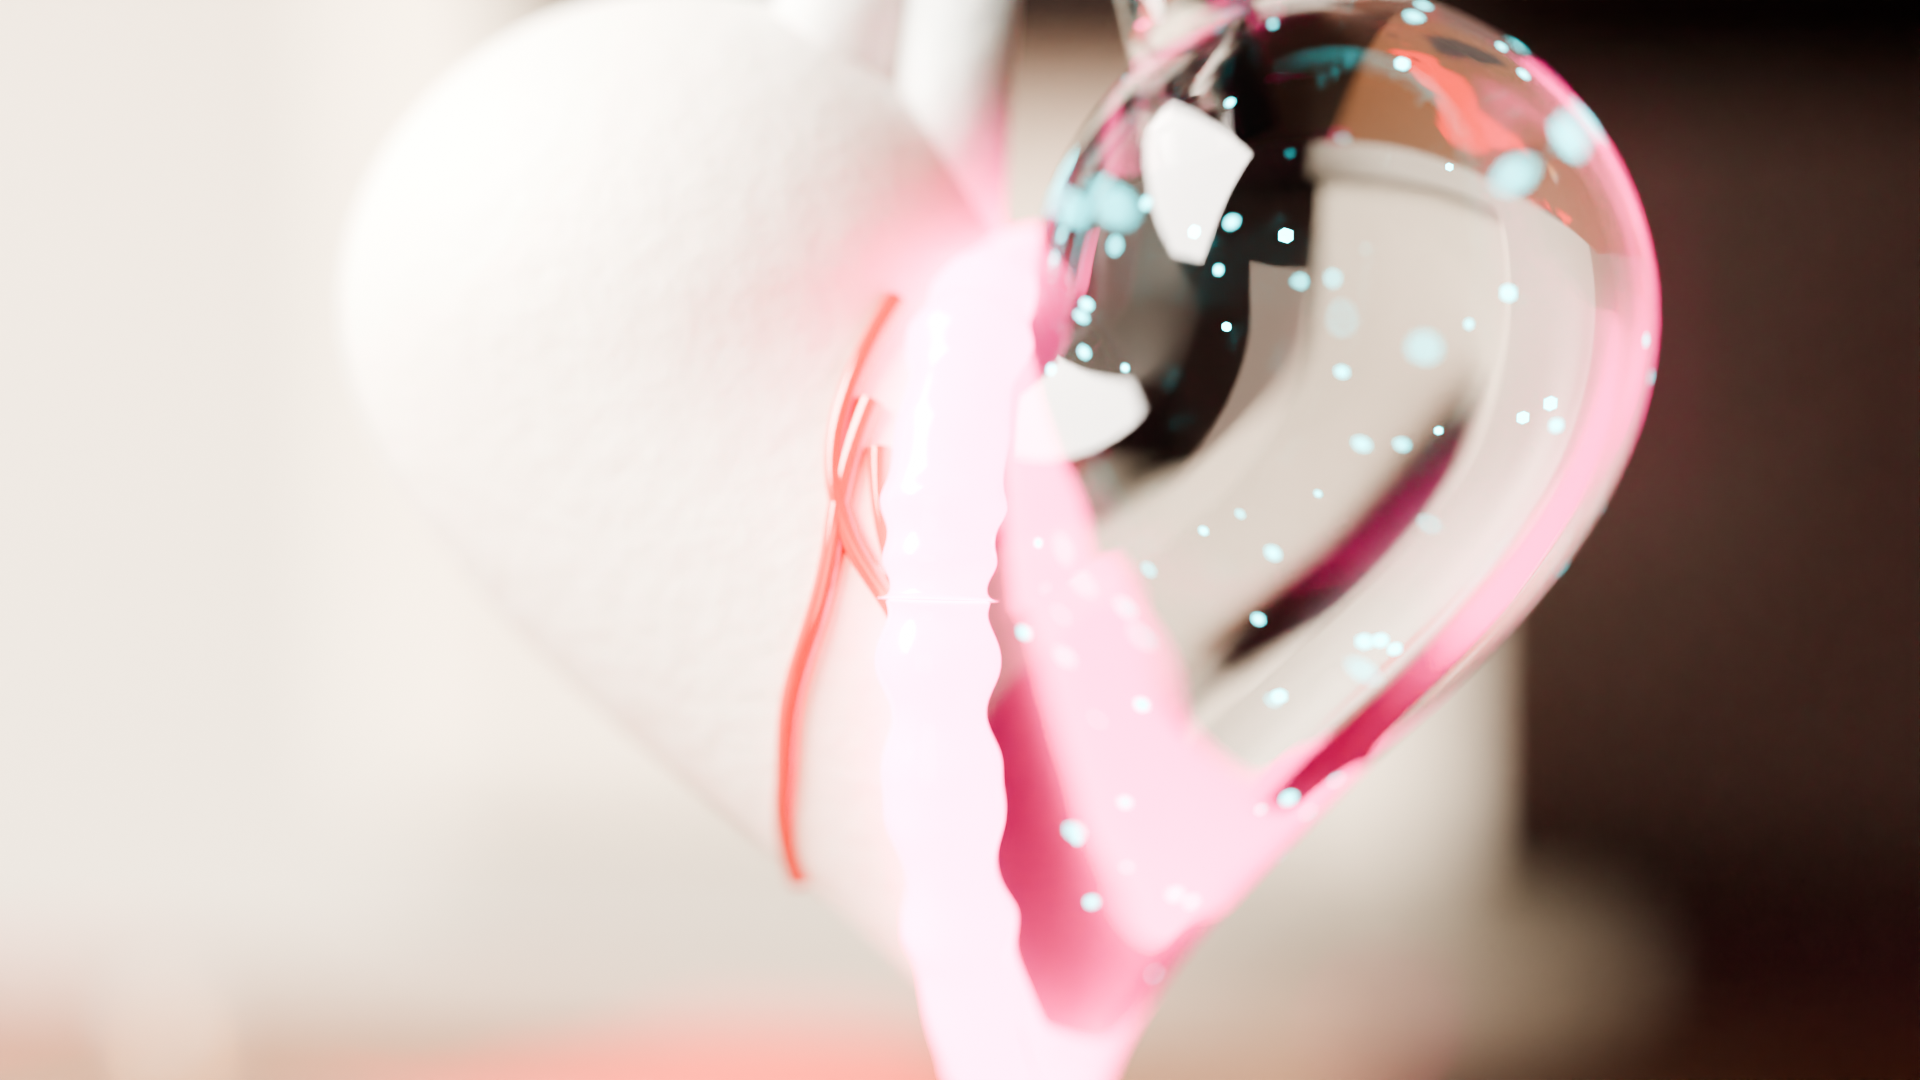
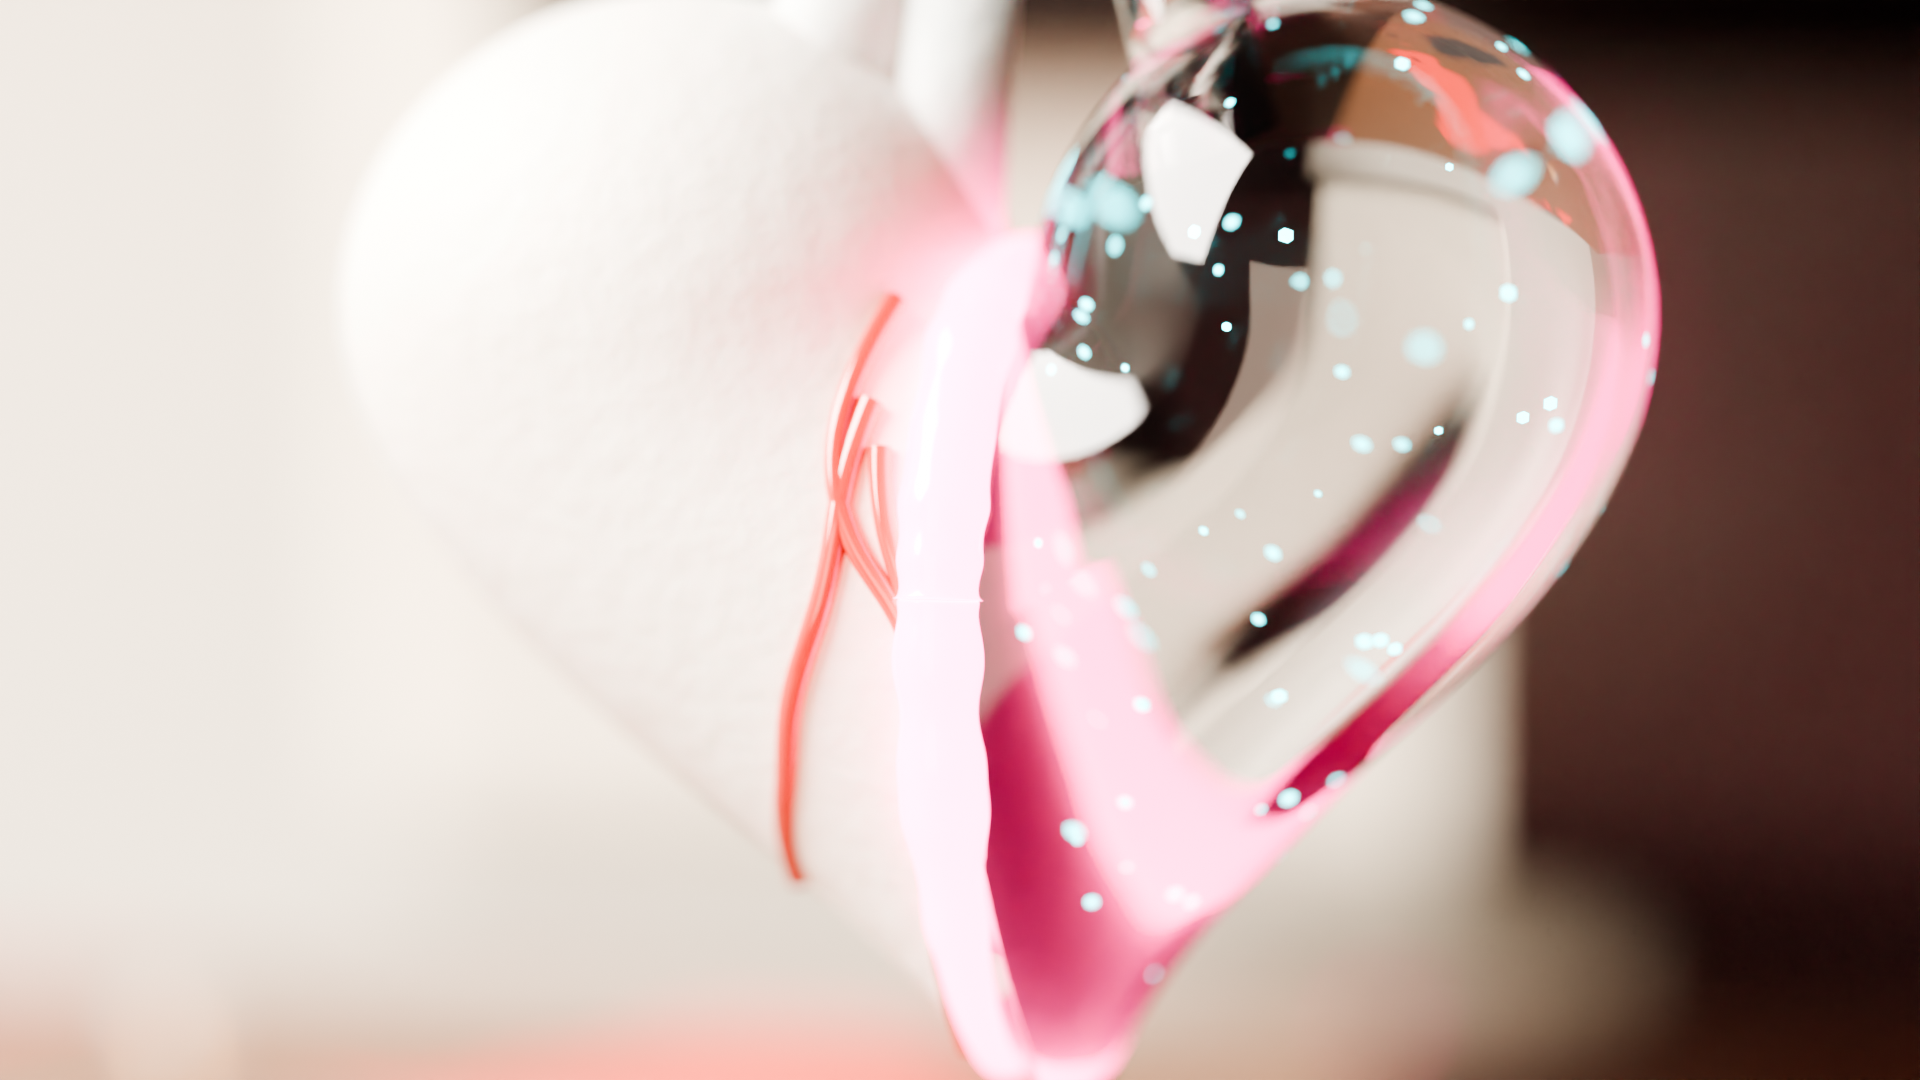
S3: neon 「裏」 hung near the focus plane on a black board, no haze in the three-quarter shot, seam tapers to the apex

diff --git a/scripts/s3_workshop.py b/scripts/s3_workshop.py
@@ -23,7 +23,8 @@ OUT = argv[0] if argv else os.path.join(ROOT, "renders", "s3")
 SHOTS = argv[1:] or ["wide", "macro", "three"]
 BENCH_TOP = 0.072
 BASE_SAMPLES = int(os.environ.get('SAMPLES', 256))
-SHOT_SAMPLES = {"three": BASE_SAMPLES * 2}   # its out-of-focus haze is the noisiest
+SHOT_SAMPLES = {}
+NO_HAZE = {"three"}
 
 
 def cycles(samples=int(os.environ.get('SAMPLES', 256))):
@@ -154,24 +155,31 @@ def build():
             clip = A.rounded_box("clip", (0.004, 0.003, 0.009), 0.0005, [A.plastic("#C9A97A", 0.6, "clip")])
             clip.location = (x, wy, wz - 0.004)
 
-    # night side: a hand-bent neon 「裏」 on the back wall, the only light on that side
-    neon = m.text("裏", "mincho", 0.09, 0.2, 0.249, "#FF3D8B", z=0)
+    # night side: a hand-bent neon 「裏」 on a black acrylic board, hung between the heart and the machine so it
+    # sits near the focus plane of the wide shot instead of melting into bokeh on the back wall
+    NEON = (0.115, 0.1, 0.138)
+    board = A.rounded_box("neon_board", (0.085, 0.003, 0.085), 0.001, [A.plastic("#0B0B0D", 0.25, "acrylic")])
+    board.location = (NEON[0], NEON[1] + 0.006, NEON[2])
+    for dx in (-0.03, 0.03):
+        A.tube_along("neon_hanger", [(NEON[0] + dx, NEON[1] + 0.006, NEON[2] + 0.042), (NEON[0] + dx, 0.14, 0.235)],
+                     0.0003, [wire_mat])
+    neon = m.text("裏", "mincho", 0.07, 0.2, 0.249, "#FF3D8B", z=0)
     neon.data.align_x, neon.data.align_y = "CENTER", "CENTER"
     neon.data.body = "裏"
     neon.data.fill_mode = "NONE"
-    neon.data.bevel_depth = 0.0012
+    neon.data.bevel_depth = 0.0016
     neon.data.offset = -0.0
     neon.data.materials.clear()
     neon.data.materials.append(A.emissive("#FF3D8B", 3.0))
     neon.rotation_euler = (math.radians(90), 0, 0)
-    neon.location = (0.17, 0.248, 0.165)
+    neon.location = NEON
 
     # lights. Day: a large north-window softbox from the left. Night: neon + pink bounce + cyan from the heart.
     area_light("north_window", (-0.32, -0.08, 0.32), (-0.04, 0.05, BENCH_TOP), 0.35, 6000, 22.0)
     area_light("paper_bounce", (-0.1, -0.35, 0.1), (0.0, 0.0, BENCH_TOP + 0.02), 0.2, 4800, 1.2)
-    area_light("neon_spill", (0.17, 0.23, 0.165), (0.1, 0.0, BENCH_TOP), 0.09, 6500, 0.03, size_y=0.06).data.color = \
+    area_light("neon_spill", (NEON[0], NEON[1] - 0.004, NEON[2]), (0.1, -0.05, BENCH_TOP), 0.09, 6500, 0.03, size_y=0.06).data.color = \
         tuple(c for c in m.srgb("#FF3D8B")[:3])
-    rim = area_light("rim_pink", (0.18, 0.22, 0.16), (0.0, 0.0, BENCH_TOP + 0.03), 0.03, 6500, 0.1)
+    rim = area_light("rim_pink", (NEON[0] + 0.01, NEON[1] - 0.004, NEON[2]), (0.0, 0.0, BENCH_TOP + 0.03), 0.03, 6500, 0.1)
     rim.data.color = tuple(c for c in m.srgb("#FF3D8B")[:3])
 
     # the day/night split: an invisible flag on x = 0 stops the window light from reaching the right half
@@ -197,7 +205,7 @@ def build():
     nt.links.new(vol.outputs[0], out.inputs["Volume"])
     haze = A.rounded_box("haze", (0.78, 0.6, 0.44), 0.0, [haze_mat])
     haze.location = (0, 0.06, 0.22)
-    return heart
+    return heart, haze
 
 
 def camera(name, eye, target, lens, fstop, focus_obj=None, focus_dist=None):
@@ -220,7 +228,7 @@ def camera(name, eye, target, lens, fstop, focus_obj=None, focus_dist=None):
 
 
 def main():
-    heart = build()
+    heart, haze = build()
     scene = bpy.context.scene
     hc = Vector((0, 0.0, BENCH_TOP + 0.033))
     seam = Vector((0.0, -0.011, hc.z + 0.002))   # the resin seam where it crosses the front face
@@ -228,7 +236,7 @@ def main():
     m._link(focus)
     focus.location = (0.0, -0.012, hc.z + 0.004)
     cams = {
-        "wide": camera("wide", (0.0, -0.36, BENCH_TOP + 0.07), (0.0, 0.08, BENCH_TOP + 0.05), 50, 4.0, focus),
+        "wide": camera("wide", (0.0, -0.36, BENCH_TOP + 0.07), (0.0, 0.08, BENCH_TOP + 0.05), 50, 5.6, focus),
         "macro": camera("macro", (0.03, -0.17, seam.z + 0.014), tuple(seam), 100, 8.0, focus),
         "three": camera("three", (-0.16, -0.2, BENCH_TOP + 0.11), (0.0, 0.02, BENCH_TOP + 0.03), 85, 2.0, focus),
     }
@@ -256,6 +264,8 @@ def main():
     for name in SHOTS:
         scene.camera = cams[name]
         scene.cycles.samples = SHOT_SAMPLES.get(name, BASE_SAMPLES)
+        # the haze behind the three-quarter shot is all out of focus and only adds volume noise there
+        haze.hide_render = name in NO_HAZE
         scene.render.filepath = os.path.join(os.path.abspath(OUT), f"s3_{name}.png")
         bpy.ops.render.render(write_still=True)
     _ = heart

diff --git a/scripts/assets.py b/scripts/assets.py
@@ -338,8 +338,10 @@ def uraomote_heart(width=0.045, seed=3):
         if len(loop) < 8:
             continue
         pts = [tuple(c) for c in loop[::2]]
-        radii = [rnd.uniform(0.75, 1.3) for _ in pts]
-        tube_along("heart_seam", pts, s * 0.075, [seam_mat], root, resolution=4, cyclic=True, radii=radii)
+        # thinner towards the apex, where the cross-section is narrow and a full-width bead reads as a blob
+        y0, y1 = min(p[1] for p in pts), max(p[1] for p in pts)
+        radii = [rnd.uniform(0.85, 1.15) * (0.45 + 0.55 * min(1.0, (p[1] - y0) / (0.35 * (y1 - y0)))) for p in pts]
+        tube_along("heart_seam", pts, s * 0.06, [seam_mat], root, resolution=4, cyclic=True, radii=radii)
     bm.free()
 
     # glaze vessels on the porcelain face (front, +Z) and back: meander down from the top cleft
